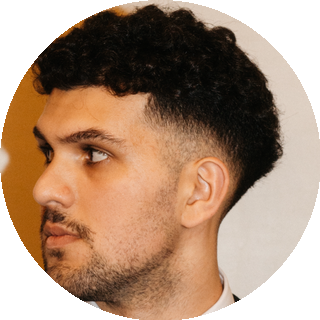
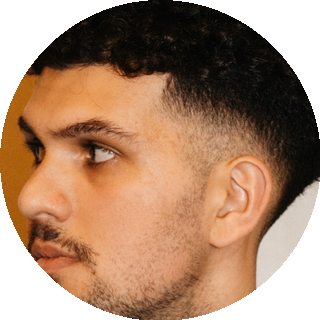
fix: profile7+profile8 truly fit circles + 72hr copy update
profile7:
- Brightness-probed horizontal position: face center is at
  cx=0.46 (not 0.50). Probe found dark hair from x=0.30 to x=0.65
- Tightened diameter from 0.75w to 0.58w so face fills more
  of the circle instead of swimming in background space

profile8:
- Source had avatar contents pushed to bottom half (top half
  was dark blurred background). Brightness-probed face: forehead
  y=110, chin y=220, collar y=290
- Cropped 200x200 square centered at (160, 200) - face/collar
  center, not geometric center

copy:
- Headline: 'Give us just 56 hours' -> 'Give us just 72 hours'

diff --git a/index.html b/index.html
@@ -1259,7 +1259,7 @@
      VSL SECTION (top of page)
 ======================================== -->
 <section class="vsl" id="vsl">
-  <h1 class="vsl-headline">Give us just <em>56&nbsp;hours</em> and we'll install a fully autonomous, self&#8209;learning AI agent into your business.</h1>
+  <h1 class="vsl-headline">Give us just <em>72&nbsp;hours</em> and we'll install a fully autonomous, self&#8209;learning AI agent into your business.</h1>
   <p class="vsl-sub">And if it doesn't make your entire team at least <strong>5x more efficient</strong>, you don't pay.</p>
   <div class="social-proof">
     <div class="avatar-cluster">
